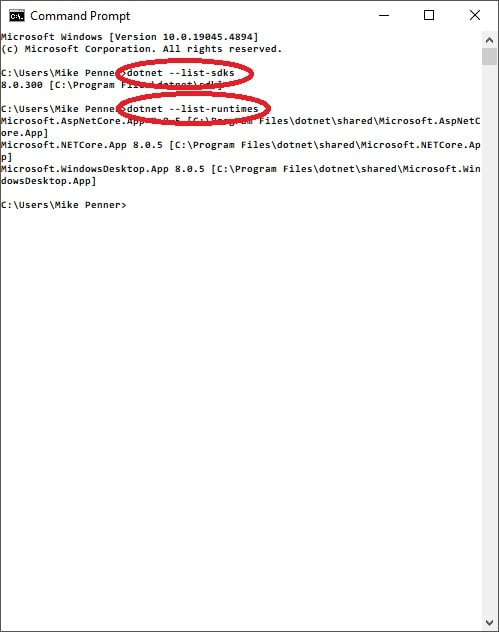
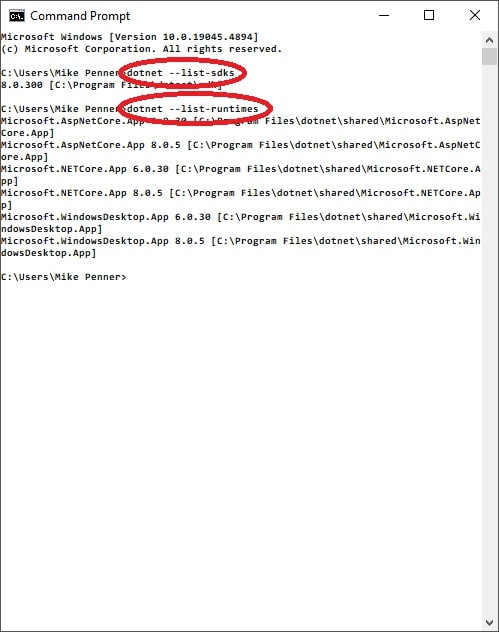
More work on Eamon CS 3.0.0.

Changed region(s): [[0.0, 0.0902, 0.9619, 0.4509]]

diff --git a/pages/TechnicalPaper/TechnicalPaper.html b/pages/TechnicalPaper/TechnicalPaper.html
@@ -107,7 +107,7 @@
           drop-down list of the Application General section, then click the Save button:
        </p>
        <br />
-       <div style="text-align: center;"><img style="max-width: 100%; max-height: 100%;" title="CompileForNetCore2Plus.jpg" alt="CompileForNetCore2Plus.jpg" src="../../assets/images/TechnicalPaper/CompileForNetCore2Plus.jpg" /></div>
+       <div style="text-align: center;"><img style="max-width: 100%; max-height: 100%;" title="CompileForNet6.jpg" alt="CompileForNet6.jpg" src="../../assets/images/TechnicalPaper/CompileForNet6.jpg" /></div>
        <br />
        <p>
           After doing this, right-click on the EamonPM.WindowsUnix project and choose Clean.&nbsp; Then right-click on the project and select Build.&nbsp; If you receive no errors, Eamon CS should now work with your installed .NET.
